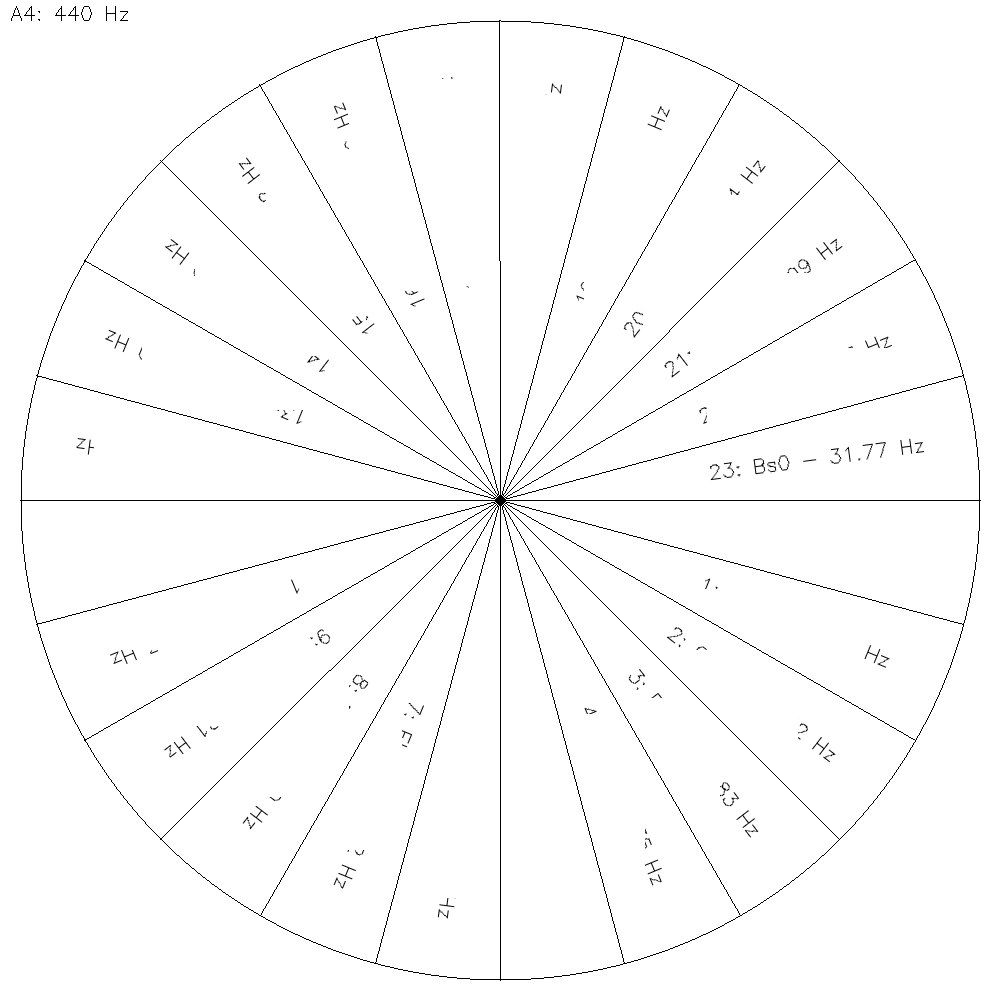
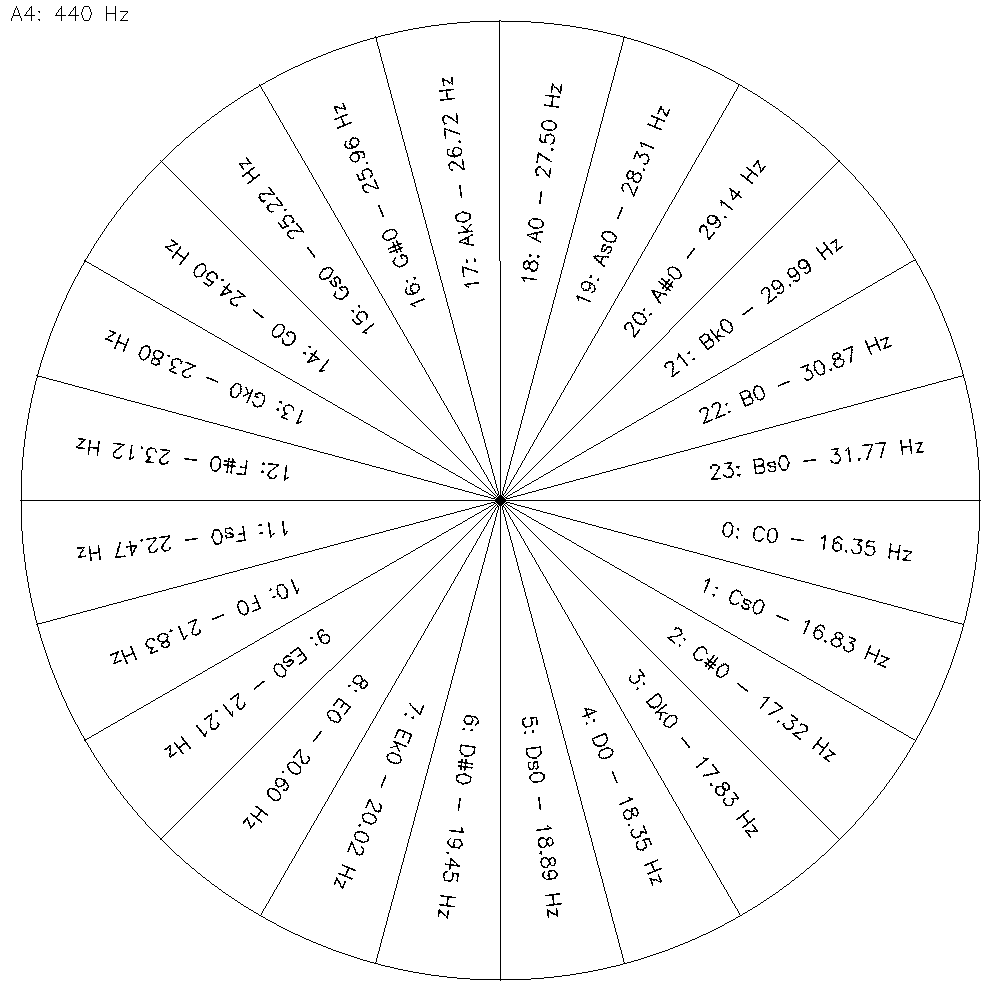
Fix the bug in rotated text label of note circle

diff --git a/drawing/circle_of_notes_drawing.py b/drawing/circle_of_notes_drawing.py
@@ -28,20 +28,27 @@ _put_text = partial(
 )
 
 
-def _text_on_wedge(image: np.ndarray, angle: float, label: str):
+def _write_on_wedge(image: np.ndarray, angle: float, label: str):
     (text_width, text_height) = _get_text_size(label)[0]
     text_img = np.zeros((text_height + 1, text_width + 1, 3), dtype=np.uint8)
     text_img.fill(255)
     _put_text(text_img, label, (0, text_height))
     text_img = pad_to_square(text_img, np.uint8(255))
     # if inwards writing is desired angle=(np.pi - angle)
-    rotated_img = rotate_image(image=text_img, angle=-angle, bg_color=255)
-    x_pos = int(CENTER[0] + TEXT_RADIUS * np.cos(angle)) - rotated_img.shape[0] // 2
-    y_pos = int(CENTER[1] + TEXT_RADIUS * np.sin(angle)) - rotated_img.shape[1] // 2
-    image[
-        y_pos : y_pos + rotated_img.shape[0],
-        x_pos : x_pos + rotated_img.shape[1],
-    ] = rotated_img
+    rotated_image = rotate_image(image=text_img, angle=-angle, bg_color=255)
+    x_pos = int(CENTER[0] + TEXT_RADIUS * np.cos(angle)) - rotated_image.shape[0] // 2
+    y_pos = int(CENTER[1] + TEXT_RADIUS * np.sin(angle)) - rotated_image.shape[1] // 2
+    row1, row2 = y_pos, y_pos + rotated_image.shape[0]
+    col1, col2 = x_pos, x_pos + rotated_image.shape[1]
+    # The use of mask performs a selective copy of the rotated_image to image to avoid the white
+    # surrounding of each rotated_image overwrite the previous one. This implementation is very
+    # simplistic and only works if color is black. The check is to safeguard for change of COLOR.
+    # But since not really covered by tests, hence the "no cover" directive.
+    if COLOR != (0, 0, 0):  # pragma: no cover
+        image[row1:row2, col1:col2] = rotated_image
+    else:
+        mask = rotated_image < 200
+        image[row1:row2, col1:col2][mask] = 0
 
 
 def _draw_radius(image: np.ndarray, angle: float):
@@ -66,7 +73,8 @@ def draw_circle(notes: List[Note]) -> np.ndarray:
     for i, note in enumerate(notes):
         angle = (i + 0.5) * angle_steps
         label = f"{i}: {note.name} - {note.frequency.value:.2f} Hz"
-        _text_on_wedge(image, angle, label)
+        # label = f"{i}: {note.name}"
+        _write_on_wedge(image, angle, label)
     for i in range(len(notes)):
         angle = i * angle_steps
         _draw_radius(image, angle)

diff --git a/README.md b/README.md
@@ -94,8 +94,6 @@ $ pyreverse -o png -p music_uml **/*.py
 
 # TODO
 
-### Bug
-* [ ] Adding frequency value to printed notes on the circle have cause issue with `mode="quartertone"` see [here](https://github.com/saeedghsh/music/blob/master/images/circle_of_notes_quartertone.png).
 
 ### Improve/Refactoring
 * [ ] split `core/notation`, maybe into `notation`, `frequency`, etc. ...
